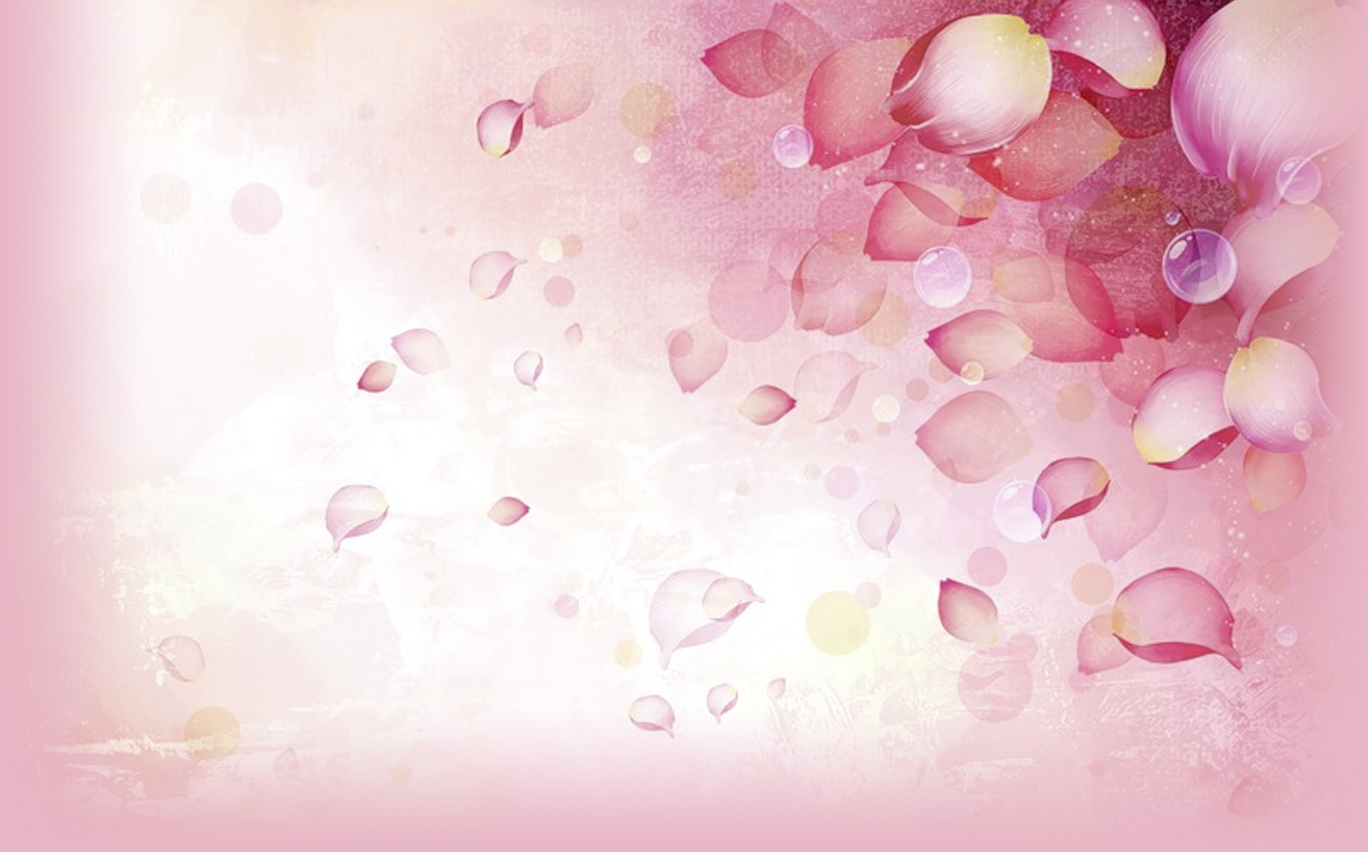
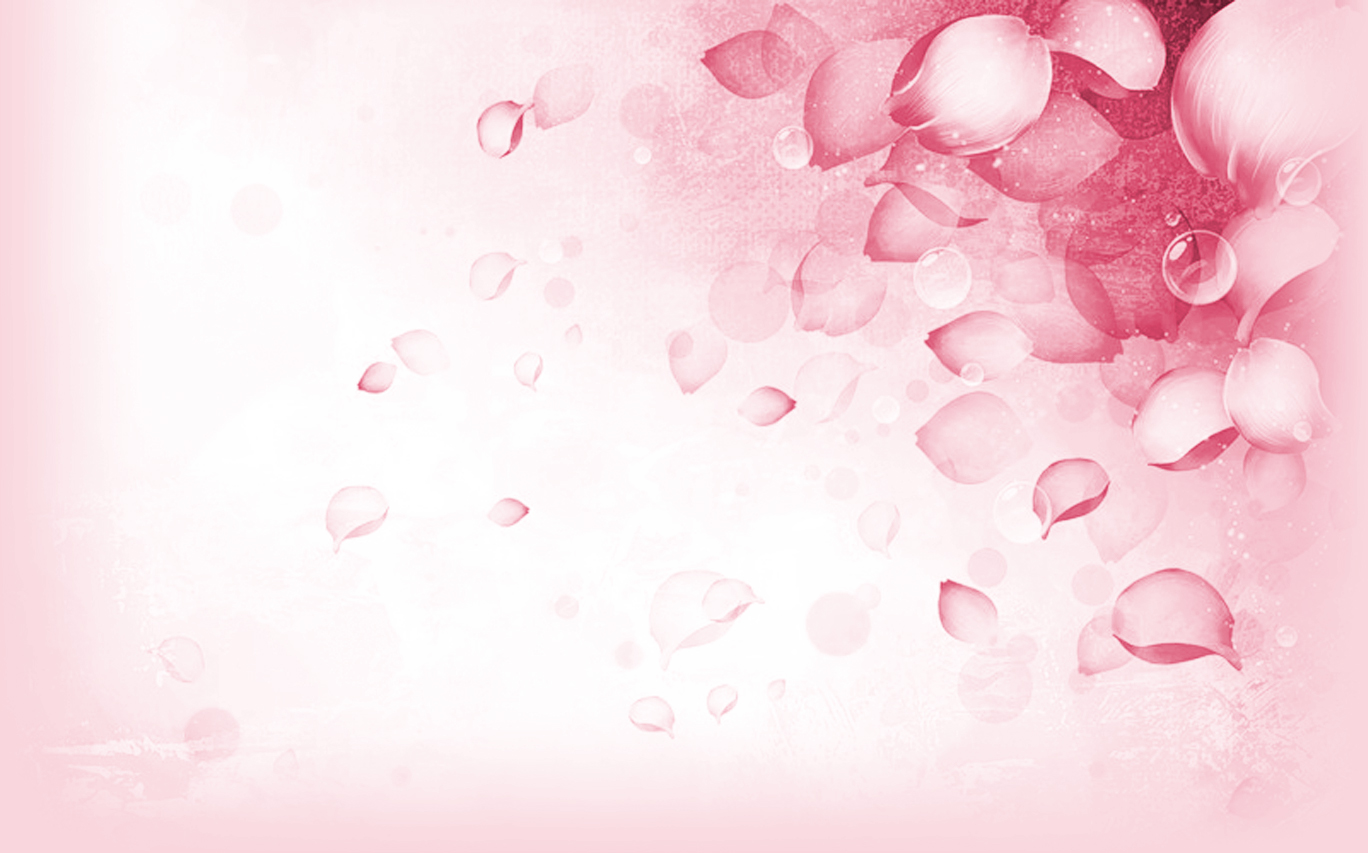
правка скидок на глвной; замена фона на карте 8 марта

diff --git a/app/assets/stylesheets/public/_map_projects.sass b/app/assets/stylesheets/public/_map_projects.sass
@@ -192,8 +192,10 @@ body
   +map_projects_wrapper
 
 .wrapper_8_marta_tomsk
-  background: #ffbed3 image_url('public/map_projects/8_marta_tomsk_background.jpg') no-repeat center top
+  background: #f9d8df image_url('public/map_projects/8_marta_tomsk_background.jpg') no-repeat center top
+
   +map_projects_wrapper
+
   .map_projects_wrapper
     .map_projects_content
       .map_projects_main

diff --git a/app/assets/stylesheets/public/_main_page.sass b/app/assets/stylesheets/public/_main_page.sass
@@ -608,10 +608,11 @@
 
     li.item_wrapper
       width: 220px
-      margin: 0px 20px 20px 0px
+      margin: 0px 17px 20px 0px
+      border: 1px solid #ccc
 
       &:nth-child(4n)
-        margin: 0px 20px 20px 0px
+        margin: 0px 17px 20px 0px
 
       .item
         width: 220px
